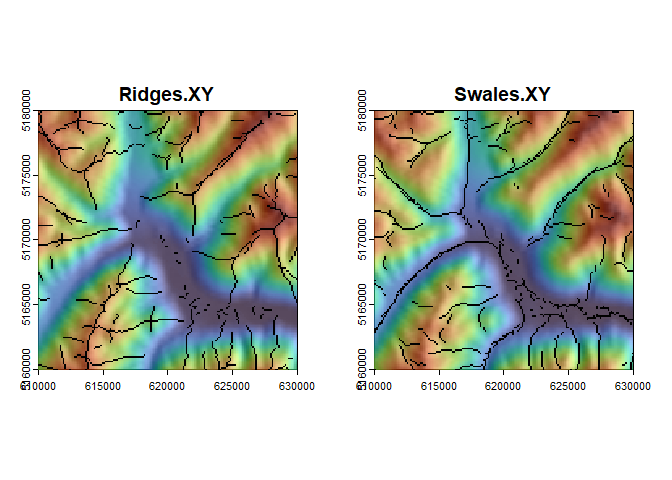
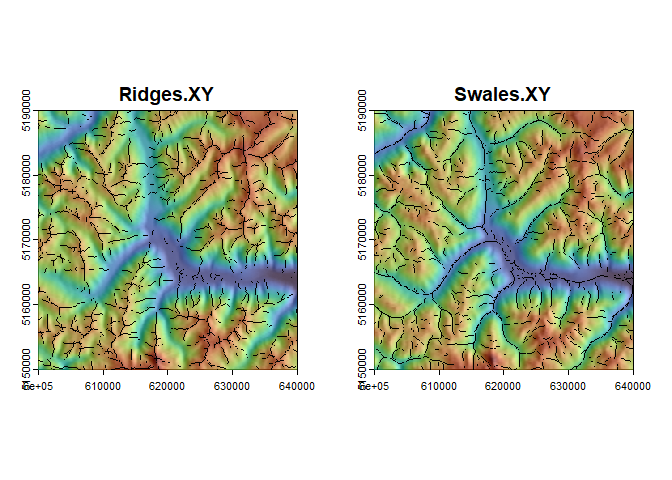
readme update 2

diff --git a/README.md b/README.md
@@ -47,11 +47,11 @@ terra::plot(uv.List$uv.Rasts, col=gray(1:200/200), legend = FALSE)
 
 # Visualize ridge and swale features
 par(mfrow=c(1,2))
-terra::plot(uv.List$uv.Rasts$nX, col= grDevices::gray(1:255/255), legend = FALSE, main = "Ridges.XY", xlim=c(610000,630000), ylim=c(5160000,5180000))
+terra::plot(uv.List$uv.Rasts$nX, col= grDevices::gray(1:255/255), legend = FALSE, main = "Ridges.XY", xlim=c(600000,640000), ylim=c(5150000,5190000))
 terra::plot(uv.List$uv.Rasts$AvgEl, col= viridis::turbo(255, alpha=0.5), legend = FALSE, add = TRUE)
 terra::plot(rs.List$rs.Rasts$r.XY, col='black', legend = FALSE, add = TRUE)
 
-terra::plot(uv.List$uv.Rasts$nX, col= grDevices::gray(1:255/255), legend = FALSE, main = "Swales.XY", xlim=c(610000,630000), ylim=c(5160000,5180000))
+terra::plot(uv.List$uv.Rasts$nX, col= grDevices::gray(1:255/255), legend = FALSE, main = "Swales.XY", xlim=c(600000,640000), ylim=c(5150000,5190000))
 terra::plot(uv.List$uv.Rasts$AvgEl, col= viridis::turbo(255, alpha=0.5), legend = FALSE, add = TRUE)
 terra::plot(rs.List$rs.Rasts$s.XY, col='black', legend = FALSE, add = TRUE)
 ```
